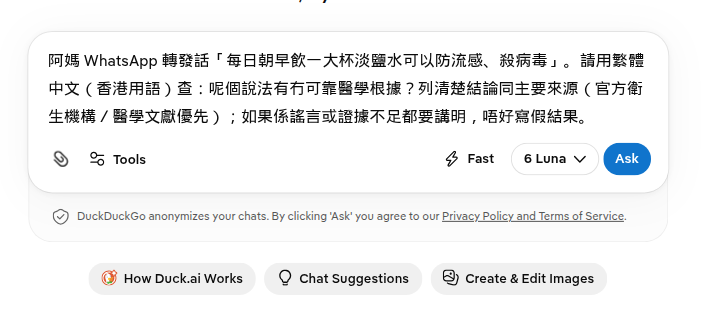
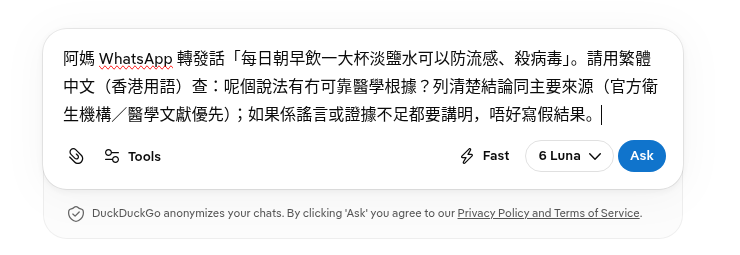
reels: show Ep.43 Duck.ai after-answer shot on step 3
Replace the composer screenshots with the 2026-10-24 pack captures and add the 1920×1113 conclusion frame so 「睇結論同源」 matches the on-screen verdict.

diff --git a/reels/duckai-health-rumor/index.html b/reels/duckai-health-rumor/index.html
@@ -65,7 +65,10 @@
       "name": "Duck.ai 3 步：查「喝鹽水防流感」秘方有冇根據",
       "description": "開 duck.ai 免登入，見 Ask anything privately，貼阿媽 WhatsApp 轉發「喝鹽水防流感」查證提示，撳藍色 Ask。2026-10-24 畫面標題「健康說法核實」，模型 GPT-6 Luna，結論係未經證實偏方、冇可靠醫學證據，來源 who.int、chp.gov.hk、cdc.gov。唔好用鹽水代替疫苗。唔係醫療建議。",
       "url": "https://jainaspp.github.io/jd-tech-landing/reels/duckai-health-rumor/",
-      "image": "https://jainaspp.github.io/jd-tech-landing/reels/duckai-health-rumor/duckai_1_typed.png",
+      "image": [
+        "https://jainaspp.github.io/jd-tech-landing/reels/duckai-health-rumor/duckai_3_after.png",
+        "https://jainaspp.github.io/jd-tech-landing/reels/duckai-health-rumor/duckai_1_typed.png"
+      ],
       "inLanguage": "zh-Hant-HK",
       "datePublished": "2026-10-25",
       "dateModified": "2026-10-24",
@@ -187,7 +190,7 @@
             <figcaption>真實畫面（2026-10-24，免登入）：第 2 步。提示貼好。Ask 已經變藍。未撳。模式係 Fast，模型掣寫 6 Luna。</figcaption>
           </figure>
           <figure class="reel-shot">
-            <img src="./duckai_2_send.png" alt="Duck.ai 輸入框特寫：喝鹽水防流感查證提示已貼上，藍色 Ask 在右下角，左邊是 Tools、Fast 和 6 Luna" width="710" height="320" loading="lazy" decoding="async" />
+            <img src="./duckai_2_send.png" alt="Duck.ai 輸入框特寫：喝鹽水防流感查證提示已貼上，藍色 Ask 在右下角，左邊是 Tools、Fast 和 6 Luna" width="740" height="255" loading="lazy" decoding="async" />
             <figcaption>真實畫面（2026-10-24，免登入）：第 2 步特寫。藍色 Ask。旁邊係 Tools、Fast、6 Luna。未撳。</figcaption>
           </figure>
         </li>
@@ -196,9 +199,13 @@
           <p>來源卡三張：Influenza (seasonal)，who.int；Seasonal Influenza，chp.gov.hk；Preventing Seasonal Flu，cdc.gov。美國疾病控制與預防中心嗰張，當日懸停網址係 <a href="https://www.cdc.gov/flu/prevention/index.html" target="_blank" rel="noopener noreferrer">cdc.gov/flu/prevention</a>。世衞卡標題 Influenza (seasonal) 對得上季節性流感資料頁。防護中心卡網域係 chp.gov.hk。</p>
           <p>同一段寫：飲落肚嘅鹽水唔會因此殺死流感病毒。世衞指出預防流感的最佳方法係接種疫苗。防護中心列出嘅預防資訊包括接種疫苗同保持手部衞生，並無把飲淡鹽水列為預防方法。畫面寫唔好為防流感特登飲鹽水，更唔好用佢代替流感疫苗或者其他有效預防措施。亦寫一大杯鹽水會增加鈉攝取，高血壓、腎病或者心臟病要留意鹽分。日常按口渴飲清水即可。</p>
           <p>回覆下面有 Read More。底寫 All chats are private. AI can make mistakes. 頂欄寫 Privacy protected and anonymized by DuckDuckGo. No AI training. 未撳入 who.int、chp.gov.hk、cdc.gov 原文之前，唔好將結論講成你自己嘅醫學判斷。</p>
-          <p>回覆旁邊有個上載箭嘴，按鈕面無字。2026-10-24 21:27 撳開 Share 對話框：寫 Creates a copy of the chat、Encrypted. Not even DuckDuckGo can read your chat.、Follow-ups remain private.。Link expires in 有 1 Day、2 Days、7 Days、30 Days，2 Days 已選。下面係 Create Share Link。今次冇撳 Create Share Link，冇公開連結。</p>
+          <figure class="reel-shot">
+            <img src="./duckai_3_after.png" alt="Duck.ai 回覆標題健康說法核實，模型 GPT-6 Luna，結論寫冇可靠醫學證據、未經證實偏方，來源卡係 who.int、chp.gov.hk、cdc.gov" width="1920" height="1113" loading="lazy" decoding="async" />
+            <figcaption>真實畫面（2026-10-24 21:27，免登入）：結論＝冇可靠醫學證據／未經證實偏方。來源卡 who.int／chp.gov.hk／cdc.gov。模型 GPT-6 Luna。標題「健康說法核實」。</figcaption>
+          </figure>
         </li>
       </ol>
+      <p>回覆旁邊有個上載箭嘴，按鈕面無字。2026-10-24 21:27 撳開 Share 對話框：寫 Creates a copy of the chat、Encrypted. Not even DuckDuckGo can read your chat.、Follow-ups remain private.。Link expires in 有 1 Day、2 Days、7 Days、30 Days，2 Days 已選。下面係 Create Share Link。今次冇撳 Create Share Link，冇公開連結。</p>
 
       <h2>常見錯誤／注意事項</h2>
       <ul>
